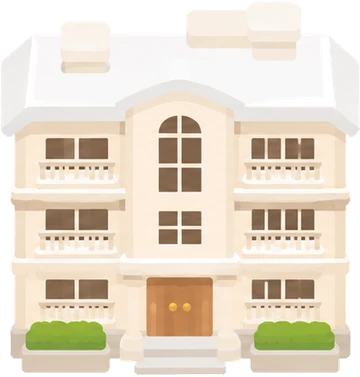
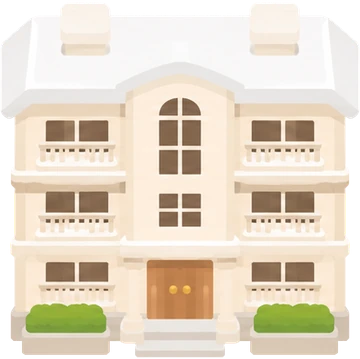
치복 타운: 새 집·빌라(지붕 마스킹)·나무 그림, 사냥터 포탈 그림 + 소용돌이 회전 효과

diff --git a/game.html b/game.html
@@ -1594,7 +1594,7 @@ function bootDone() { setTimeout(() => { try { localStorage.setItem('cbt-booting
 const ART = {};
 const ART_N = ['b-gacha', 'b-cafe', 'b-skin', 'b-hall', 'b-smith', 'b-fishshop', 'b-lumber', 'b-quarry', 'b-farmshed', 'farm', 'raid-bg',
   ...[1, 2, 3, 4, 5].map(i => 'tree-' + i), ...[1, 2, 3, 4, 5, 6, 7, 8].flatMap(i => ['house-' + i, 'house-' + i + '-roof']),
-  ...['head', 'wing', 'arm', 'body', 'leg'].map(n => 'd-' + n), 'rd-hat', 'rd-suit', 'rd-sword', 'rd-bow', 'rd-staff'];
+  ...['head', 'wing', 'arm', 'body', 'leg'].map(n => 'd-' + n), 'rd-hat', 'rd-suit', 'rd-sword', 'rd-bow', 'rd-staff', 'portal', 'portal-hole'];
 const artReady = Promise.all(ART_N.map(n => new Promise(ok => { const im = new Image(); im.onload = () => { ART[n] = im; ok(); }; im.onerror = () => ok(); im.src = `assets/img/town/${n}.webp?v=__BUILD__`; })));
 // 그림 조각 (캐릭터 스킨용): inkDraw 안에서 테두리 없이 그림을 그림. rot = 돌리기(가운데 기준)
 // 그림 바깥 테두리 (2026-11-18): 그림 모양대로 검게 칠한 판(silOf)을 둘레 16방향으로 O만큼 밀어 그린 뒤 그 위에 그림
@@ -2122,19 +2122,19 @@ const rockP = (c = '#9aa0a8', ore) => [{ path: PG([[-16, -8], [-17, -1], [-12, 3
   ...(ore ? [{ path: E(7, -10, 2.8, 2.1), c: '#e8c55a' }, { path: E(-5, -8, 2.2, 1.7), c: '#e8c55a' }, { path: E(10, -15, 1.7, 1.4), c: '#bfe9ff' }] : [])];
 const stumpP = [{ path: R(-8, -7, 16, 8, [0, 0, 3, 3]), c: '#8a5a30' }, { path: E(0, -7, 8, 5), c: '#d8a56a' }, { path: E(0, -7, 4.5, 2.8), c: '#c48a4f' }, { path: E(0, -7, 1.6, 1), c: '#a0703c' }, { path: E(9, -1, 3, 1.6, .5), c: '#6cc35a' }];
 const rubbleP = [{ path: E(-6, -2, 5, 3.4), c: '#7e848c' }, { path: E(-6, -3.5, 5, 3), c: '#a3a9b1' }, { path: E(5, -2, 4, 3), c: '#757b83' }, { path: E(5, -3.2, 4, 2.6), c: '#9aa0a8' }, { path: E(0, -5, 3.5, 2.6), c: '#b4bac2' }];
-// 그림 나무: [그림 번호, 너비]. 발(줄기 밑동) = 그림 아래에서 7%
+// 그림 나무: [그림 번호, 너비]. 발(줄기 밑동) = 그림 맨 아래 (2026-11-18 새 그림, 그림자는 코드가 그림)
 const TREE_IMG = { maple: [1, 52], pine: [2, 46], round: [3, 60], birch: [4, 48], cherry: [5, 56] };
-const treeImg = k => { const [n, w] = TREE_IMG[k] || [], im = ART['tree-' + n]; if (!im) return null; const h = w * im.height / im.width; return sprite('to:' + k, w + BP * 2, h + BP * 2, w / 2 + BP, h * .93 + BP, g => inkImage(g, im, -w / 2, -h * .93, w, h)); };
+const treeImg = k => { const [n, w] = TREE_IMG[k] || [], im = ART['tree-' + n]; if (!im) return null; const h = w * im.height / im.width; return sprite('to:' + k, w + BP * 2, h + BP * 2, w / 2 + BP, h * .985 + BP, g => inkImage(g, im, -w / 2, -h * .985, w, h)); };
 const SP_TREE0 = { birch: () => sprite('t:birch5', 40, 70, 20, 64, g => inkDraw(g, birchP)), cherry: () => sprite('t:cherry5', 60, 50, 30, 44, g => inkDraw(g, cherryP)), maple: () => sprite('t:maple5', 50, 50, 25, 44, g => inkDraw(g, mapleP)),
   round: () => sprite('t:round5', 50, 60, 25, 54, g => inkDraw(g, treeP('round'))), pine: () => sprite('t:pine5', 50, 62, 25, 56, g => inkDraw(g, treeP('pine'))), stone: () => sprite('t:stone5', 48, 34, 24, 28, g => inkDraw(g, rockP('#a39a8c'))) };
 const SP_TREE = Object.fromEntries(Object.entries(SP_TREE0).map(([k, f]) => [k, () => treeImg(k) || f()]));
 const SP_NODE = { tree: () => treeImg('round') || sprite('n:tree5', 50, 60, 25, 54, g => inkDraw(g, treeP('round', '#58a856'))), rock: () => sprite('n:rock5', 48, 34, 24, 28, g => inkDraw(g, rockP('#a3a8b0', true))),
   stump: () => sprite('n:stump5', 30, 18, 15, 14, g => inkDraw(g, stumpP)), rubble: () => sprite('n:rubble5', 30, 16, 15, 12, g => inkDraw(g, rubbleP)) };
 const nodeReady = n => !((me.life?.nodes?.[n.i] || 0) > Date.now());
-function drawDeco(d) { const x = d.x * T + T / 2, y = d.y * T + T - 3; if (TREE_IMG[d.k] && ART['tree-1']) return blit(SP_TREE[d.k](), x, y, d.s); ctx.fillStyle = 'rgba(31,42,58,.15)'; ctx.beginPath(); ctx.ellipse(x, y, 13 * d.s, 4, 0, 0, 7); ctx.fill(); blit(SP_TREE[d.k](), x, y, d.s); }
+function drawDeco(d) { const x = d.x * T + T / 2, y = d.y * T + T - 3; ctx.fillStyle = 'rgba(31,42,58,.15)'; ctx.beginPath(); ctx.ellipse(x, y, 13 * d.s, 4, 0, 0, 7); ctx.fill(); blit(SP_TREE[d.k](), x, y, d.s); }
 function drawNode(n, now) {
   const x = n.x * T + T / 2, y = n.y * T + T - 3, ok = nodeReady(n), shake = GA?.node === n ? Math.sin(now / 30) * 1.6 : 0;
-  if (!(ok && n.k === 'tree' && ART['tree-1'])) { ctx.fillStyle = 'rgba(31,42,58,.15)'; ctx.beginPath(); ctx.ellipse(x, y, 12, 4, 0, 0, 7); ctx.fill(); }
+  ctx.fillStyle = 'rgba(31,42,58,.15)'; ctx.beginPath(); ctx.ellipse(x, y, 12, 4, 0, 0, 7); ctx.fill();
   if (ok && n.v) blit(SP_TREE[n.v](), x + shake, y, n.s);
   else blit(SP_NODE[ok ? n.k : n.k === 'tree' ? 'stump' : 'rubble'](), x + shake, y, n.k === 'tree' ? 1.05 : 1);
 }
@@ -2193,7 +2193,58 @@ function drawScreen(s, now) {
   const bw = 42 * K, bh = 16 * K; ctx.fillStyle = S.live ? (Math.floor(now / 600) % 2 ? '#ff3b3b' : '#ff6b6b') : '#5d6b7e'; rr(ctx, r.x + 8, r.y + 8, bw, bh, 5 * K); ctx.fill();
   ctx.fillStyle = '#fff'; ctx.font = f(800, 10); ctx.textAlign = 'center'; ctx.textBaseline = 'middle'; ctx.fillText(S.live ? '● LIVE' : 'OFF AIR', r.x + 8 + bw / 2, r.y + 8 + bh / 2 + .5);
 }
+// 사냥터 포탈 그림 (2026-11-18 사용자 그림): 가운데 파란 소용돌이 칸만 코드로 돌림 + 빛 줄기 · 빨려 드는 빛 알갱이
+const PORTAL_W = 92, PORTAL_FOOT = .97, PORTAL_HOLE = [.3102, .3988, .3795, .3683];   // 소용돌이 칸 (그림 안 비율, town-art.py 8번 meta.portal.hole)
+const portalBox = () => { const im = ART.portal, w = PORTAL_W, h = im ? w * im.height / im.width : 74; return { x: PORTAL.x - w / 2, y: PORTAL.y - h * PORTAL_FOOT, w, h }; };
+const PH = [document.createElement('canvas'), document.createElement('canvas')];
+function portalSwirl(tt, Wd, Hd) {
+  const hole = ART['portal-hole'], k = 4, cw = Math.ceil(Wd * k), ch = Math.ceil(Hd * k), [A, B] = PH;
+  for (const c of PH) if (c.width !== cw || c.height !== ch) { c.width = cw; c.height = ch; }
+  const q = A.getContext('2d'), r = B.getContext('2d'), cx = cw * .5, cy = ch * .54, R = Math.min(cw, ch) * .5;
+  q.setTransform(1, 0, 0, 1, 0, 0); q.globalCompositeOperation = 'source-over'; q.globalAlpha = 1; q.clearRect(0, 0, cw, ch);
+  q.drawImage(hole, 0, 0, cw, ch);   // 그대로 있는 바탕
+  // 1) 가운데 원판: 그림을 돌리고 가장자리는 흐리게 바탕과 섞음
+  r.setTransform(1, 0, 0, 1, 0, 0); r.globalCompositeOperation = 'source-over'; r.clearRect(0, 0, cw, ch);
+  r.save(); r.translate(cx, cy); r.rotate(-tt * 1.6); r.drawImage(hole, -cx, -cy, cw, ch); r.restore();
+  r.globalCompositeOperation = 'destination-in';
+  const fade = r.createRadialGradient(cx, cy, 0, cx, cy, R * 1.02); fade.addColorStop(0, '#000'); fade.addColorStop(.72, '#000'); fade.addColorStop(1, 'rgba(0,0,0,0)');
+  r.fillStyle = fade; r.fillRect(0, 0, cw, ch);
+  q.drawImage(B, 0, 0);
+  // 2) 빛 줄기 3개 (나선)
+  q.globalCompositeOperation = 'lighter'; q.lineCap = 'round';
+  for (let j = 0; j < 3; j++) {
+    q.beginPath();
+    for (let i = 0; i <= 24; i++) { const u = i / 24, a = -tt * 2.6 + j * 2.094 + u * 3.4, rr = R * (.08 + u * .95); q.lineTo(cx + Math.cos(a) * rr, cy + Math.sin(a) * rr * .92); }
+    q.strokeStyle = `rgba(150,235,255,${.28 + .12 * Math.sin(tt * 3 + j)})`; q.lineWidth = R * .13; q.stroke();
+  }
+  // 3) 빨려 드는 빛 알갱이
+  for (let i = 0; i < 9; i++) {
+    const u = 1 - ((tt * .45 + i / 9) % 1), a = -tt * 2 + i * 2.4 + u * 3, rr = R * (.1 + u * .9);
+    q.fillStyle = `rgba(220,250,255,${.9 * (1 - u * .6)})`; q.beginPath(); q.arc(cx + Math.cos(a) * rr, cy + Math.sin(a) * rr * .92, R * (.025 + u * .03), 0, 7); q.fill();
+  }
+  // 4) 가운데 맥박 빛
+  const glow = q.createRadialGradient(cx, cy, 0, cx, cy, R * .55), pul = .45 + .2 * Math.sin(tt * 4);
+  glow.addColorStop(0, `rgba(210,250,255,${pul})`); glow.addColorStop(1, 'rgba(120,200,255,0)'); q.fillStyle = glow; q.fillRect(0, 0, cw, ch);
+  // 5) 소용돌이 칸 모양대로 자름
+  q.globalCompositeOperation = 'destination-in'; q.drawImage(hole, 0, 0, cw, ch);
+  return A;
+}
 function drawPortal(now) {
+  if (!ART.portal) return drawPortalOld(now);
+  const b = portalBox(), tt = now / 1000;
+  ctx.fillStyle = 'rgba(31,42,58,.2)'; ctx.beginPath(); ctx.ellipse(PORTAL.x, PORTAL.y - 1, b.w * .46, 6, 0, 0, 7); ctx.fill();
+  blit(sprite('portal', b.w + BP * 2, b.h + BP * 2, b.w / 2 + BP, b.h * PORTAL_FOOT + BP, g => inkImage(g, ART.portal, -b.w / 2, -b.h * PORTAL_FOOT, b.w, b.h)), PORTAL.x, PORTAL.y);
+  const [hx, hy, hw, hh] = PORTAL_HOLE, X = b.x + hx * b.w, Y = b.y + hy * b.h, Wd = hw * b.w, Hd = hh * b.h;
+  if (ART['portal-hole']) ctx.drawImage(portalSwirl(tt, Wd, Hd), X, Y, Wd, Hd);
+  // 문 밖으로 새어 나오는 빛 + 떠오르는 알갱이
+  ctx.save(); ctx.globalCompositeOperation = 'lighter';
+  const gx = X + Wd / 2, gy = Y + Hd * .55, gl = ctx.createRadialGradient(gx, gy, Wd * .2, gx, gy, Wd * .95);
+  gl.addColorStop(0, `rgba(90,170,255,${.16 + .06 * Math.sin(tt * 2.2)})`); gl.addColorStop(1, 'rgba(90,170,255,0)'); ctx.fillStyle = gl; ctx.beginPath(); ctx.arc(gx, gy, Wd * .95, 0, 7); ctx.fill();
+  for (let i = 0; i < 6; i++) { const u = (tt * .35 + i / 6) % 1, px = gx + Math.sin(i * 2.1 + tt * 1.3) * Wd * .4, py = Y + Hd * (.95 - u * 1.1); ctx.fillStyle = `rgba(170,230,255,${(1 - u) * .8})`; ctx.beginPath(); ctx.arc(px, py, 1.1 + (1 - u), 0, 7); ctx.fill(); }
+  ctx.restore();
+  plaque('⚔ 사냥터 포탈', PORTAL.x, b.y - 8, '#f3e3c3', 12);
+}
+function drawPortalOld(now) {
   const x = PORTAL.x, y = PORTAL.y, tt = now / 1000;
   ctx.fillStyle = 'rgba(31,42,58,.2)'; ctx.beginPath(); ctx.ellipse(x, y, 22, 5, 0, 0, 7); ctx.fill();
   flatInk(ctx, [{ path: E(x, y - 4, 24, 9), c: '#5a4398' }, { path: E(x, y - 5, 19, 6.5), c: '#7d62d4' },
@@ -3766,7 +3817,7 @@ function tap(sx, sy) {
   }
   if (Math.hypot(w.x - FSIGN.x, w.y - (FSIGN.y - 24)) < 26) return openFishing();
   { const ss = SPOTS.find(s => s.id === 'screen'), r = screenRect(ss); if (w.x > r.x - 10 && w.x < r.x + r.w + 10 && w.y > r.y - 10 && w.y < r.base) return openSpot(ss); }   // 큰 전광판
-  if (Math.abs(w.x - PORTAL.x) < 24 && w.y > PORTAL.y - 74 && w.y < PORTAL.y + 6) return openHuntSelect();
+  if (Math.abs(w.x - PORTAL.x) < (ART.portal ? PORTAL_W * .45 : 24) && w.y > (ART.portal ? portalBox().y + 6 : PORTAL.y - 74) && w.y < PORTAL.y + 6) return openHuntSelect();
   const fo = SPOTS.find(s => s.id === 'fountain'); if (Math.hypot((w.x - (fo.x + 1) * T) / 38, (w.y - (fo.y + .8) * T) / 36) < 1) return openWish();
   if (hitP) return openProfile(hitP);
   if (onMe) { openPanelTab('stat'); return; }

diff --git a/scripts/img-export/town-art.py b/scripts/img-export/town-art.py
@@ -4,7 +4,7 @@
 import json, os, sys
 from collections import deque
 import numpy as np
-from PIL import Image
+from PIL import Image, ImageFilter
 
 SRC = os.path.join('텍스쳐 템플릿', '내 디자인')
 OUT = os.path.join('assets', 'img', 'town')
@@ -165,50 +165,31 @@ row = f[int(f.shape[0] * .5), :, :3].astype(int)
 soil = np.where((row[:, 0] < 180) & (row[:, 0] > 110) & (row[:, 1] < 110))[0]
 META['farmIn'] = [round(soil.min() / f.shape[1], 4), round(soil.max() / f.shape[1], 4)]
 
-# 3) 나무 5그루
-r = cut_bg(load('풍경_나무'), holes=True)
+def load_rgba(name):
+    return np.asarray(Image.open(os.path.join(SRC, name + '.png')).convert('RGBA'))
+
+def keep_rgba(name):
+    """이미 배경이 투명한 그림 (2026-11-18 새 그림): 투명 칸 색은 0으로"""
+    a = load_rgba(name).copy(); a[a[:, :, 3] == 0] = 0; return a
+
+# 3) 나무 5그루 (2026-11-18 새 그림, 배경 투명)
+r = keep_rgba('풍경_나무')
 for i, (x0, x1) in enumerate(split_n(r, 5)):
     save('tree-%d' % (i + 1), clean(crop(r, (x0, 0, x1, r.shape[0]))), width=240)
 
-# 4) 집 4 + 빌라 4: 지붕(하얀색)은 따로 떼어서 색을 입힐 수 있게
-def roof_mask(t):
-    rgb = t[:, :, :3].astype(int); al = t[:, :, 3]
-    mn = rgb.min(2); mx = rgb.max(2)
-    m = (al > 8) & (mn >= 214) & ((mx - mn) <= 10)
-    # 위쪽 60% 안에서 시작하는 큰 덩어리만 (계단·난간 빼기)
-    h, w = m.shape; lab = -np.ones((h, w), int); keep = np.zeros_like(m)
-    step = 2; ms = m[::step, ::step]; hh, ww = ms.shape; seen = np.zeros_like(ms)
-    for y in range(hh):
-        for x in range(ww):
-            if not ms[y, x] or seen[y, x]: continue
-            q = deque([(y, x)]); seen[y, x] = True; pts = []
-            while q:
-                cy, cx = q.popleft(); pts.append((cy, cx))
-                for dy, dx in ((1, 0), (-1, 0), (0, 1), (0, -1)):
-                    ny, nx = cy + dy, cx + dx
-                    if 0 <= ny < hh and 0 <= nx < ww and ms[ny, nx] and not seen[ny, nx]:
-                        seen[ny, nx] = True; q.append((ny, nx))
-            top = min(p[0] for p in pts)
-            if len(pts) * step * step > h * w * .004 and top < hh * .6:
-                for cy, cx in pts: keep[cy * step:(cy + 1) * step, cx * step:(cx + 1) * step] = True
-    keep &= m
-    # 테두리 1칸 넓혀서 틈 메우기 (밝은 칸만)
-    grow = keep | np.roll(keep, 1, 0) | np.roll(keep, -1, 0) | np.roll(keep, 1, 1) | np.roll(keep, -1, 1)
-    grow &= (al > 8) & (mn >= 200) & ((mx - mn) <= 16)
-    return grow
-
+# 4) 집 4 + 빌라 4 (2026-11-18 새 그림): 지붕 칸은 사용자가 그린 마스킹 그림(빨간 칸)으로 떼어서 색을 입힘
 k = 0
-for src in ['건물_집', '건물_빌라']:
-    r = cut_bg(load(src))
+for src, msk in [('건물_집', '건물_집_지붕색마스킹'), ('건물_빌라_리뉴얼', '건물_빌라_지붕색 마스킹')]:
+    r = keep_rgba(src); M = load_rgba(msk)[:, :, 3].astype(np.float32) / 255
     for (x0, x1) in col_segments(r, 4):
         k += 1
-        t = crop(r, (x0, 0, x1, r.shape[0]))
-        base = save('house-%d' % k, t, width=360)
-        m = roof_mask(t)
-        roof = t.copy(); roof[:, :, 3] = np.where(m, t[:, :, 3], 0)
-        # 지붕 칸은 밝기만 남김 (회색조) → 화면에서 색을 곱함
+        sub = r[:, x0:x1]; bx = bbox(sub[:, :, 3]); X0, Y0, X1, Y1 = bx[0] + x0, bx[1], bx[2] + x0, bx[3]
+        t = r[Y0:Y1, X0:X1]; m = M[Y0:Y1, X0:X1]
+        save('house-%d' % k, t, width=360)
+        roof = t.copy(); roof[:, :, 3] = (t[:, :, 3] * m).round().astype(np.uint8)
+        # 지붕 칸은 밝기만 남김 (회색조) → 화면에서 색을 곱함 (그림의 음영은 살림)
         g = roof[:, :, :3].astype(int).mean(2)
-        g = np.clip((g - 200) * 255 / 55, 0, 255) * .35 + 255 * .65
+        g = np.clip((g - 170) * 255 / 85, 0, 255) * .45 + 255 * .55
         roof[:, :, 0] = roof[:, :, 1] = roof[:, :, 2] = g.astype(np.uint8)
         save('house-%d-roof' % k, roof, width=360)
 
@@ -219,8 +200,6 @@ META['raid-bg'] = [bg.width, bg.height]
 
 # 6) 드래곤 조각 (2026-11-18 새로): 사용자가 1182×1024 판 하나에 위치까지 맞춰 그린 조각 5장 (왼쪽만 → 오른쪽은 좌우로 뒤집음)
 #    meta 'dragon' = { 이름: [x, y, w, h] } 판 좌표 (원점은 화면이 정함: 가운데 x = 591, 바닥 = 가장 아래 칸)
-def load_rgba(name):
-    return np.asarray(Image.open(os.path.join(SRC, name + '.png')).convert('RGBA'))
 PART = {}; FW = 1182; bottom = 0
 for src, n in [('드래곤_날개', 'wing'), ('드래곤_뒷다리', 'leg'), ('드래곤_몸통', 'body'), ('드래곤_앞발', 'arm'), ('드래곤_머리', 'head')]:
     a = load_rgba(src); b = bbox(a[:, :, 3], pad=1); t = a[b[1]:b[3], b[0]:b[2]]
@@ -237,6 +216,21 @@ for src, n, ox, oy, k in [('스킨_드래곤_모자', 'hat', 192, 336, 4), ('스
     save('rd-' + n, t.copy())
     RD[n] = [round((b[0] - ox) / k, 3), round((b[1] - oy) / k, 3), round(t.shape[1] / k, 3), round(t.shape[0] / k, 3)]   # 게임 단위 x, y, w, h (기준점에서)
 META['rd'] = RD
+
+# 8) 사냥터 포탈 (2026-11-18): 그림 + 가운데 소용돌이 칸(파란 칸) 위치 → 화면이 그 칸만 돌림
+r = keep_rgba('건물_사냥터 포탈'); b = bbox(r[:, :, 3]); t = r[b[1]:b[3], b[0]:b[2]]
+save('portal', t, width=480)
+c = t[:, :, :3].astype(int); hole = (t[:, :, 3] > 200) & (c[:, :, 2] > c[:, :, 0] + 70) & (c[:, :, 2] > 150)
+# 큰 덩어리만 (깃발 등 파란 점 빼기) → 구멍 메우기
+hm = Image.fromarray(hole.astype(np.uint8) * 255).filter(ImageFilter.MaxFilter(5)).filter(ImageFilter.MinFilter(5))
+ha = np.asarray(hm) > 0; ys, xs = np.where(ha)
+hb = [int(xs.min()), int(ys.min()), int(xs.max()) + 1, int(ys.max()) + 1]
+hole_img = t.copy(); hole_img[:, :, 3] = np.where(ha, 255, 0); hole_img = hole_img[hb[1]:hb[3], hb[0]:hb[2]]
+im = Image.fromarray(hole_img, 'RGBA'); sc = 480 / t.shape[1]
+im = im.resize((max(1, round(im.width * sc)), max(1, round(im.height * sc))), Image.LANCZOS); im.save(os.path.join(OUT, 'portal-hole.webp'), 'WEBP', quality=92, method=6)
+H, W = t.shape[:2]
+META['portal'] = {'hole': [round(hb[0] / W, 4), round(hb[1] / H, 4), round((hb[2] - hb[0]) / W, 4), round((hb[3] - hb[1]) / H, 4)]}
+print('portal hole', hb, t.shape)
 
 json.dump(META, open(os.path.join(OUT, 'meta.json'), 'w'), ensure_ascii=False, indent=1)
 print(json.dumps(META, ensure_ascii=False))

diff --git a/scripts/img-export/clean-edge.py b/scripts/img-export/clean-edge.py
@@ -1,0 +1,66 @@
+# 그림 바깥 라인 정리 (2026-11-18): 반투명 번짐·떨어진 작은 점 지우기 → 작은 홈 메우기 → 가장자리 부드럽게(안티에일리어싱)
+# 쓰는 법: python scripts/img-export/clean-edge.py "원본.png" "저장할.png"
+# 원본은 그대로 두고 새 파일로 저장함
+import sys
+from collections import deque
+import numpy as np
+from PIL import Image, ImageFilter
+
+src, dst = sys.argv[1], sys.argv[2]
+im = Image.open(src).convert('RGBA')
+a = np.asarray(im).astype(np.float32)
+rgb, al = a[:, :, :3], a[:, :, 3]
+H, W = al.shape
+
+# 1) 확실히 그림인 곳 (반투명 번짐은 버림)
+solid = al >= 128
+
+# 2) 떨어진 작은 덩어리(점·부스러기) 지우기: 이어진 덩어리 중 가장 큰 것의 0.3% 보다 작으면 버림
+st = 2
+s2 = solid[::st, ::st]; h2, w2 = s2.shape
+lab = -np.ones((h2, w2), np.int32); areas = []
+for y in range(h2):
+    row = s2[y]
+    for x in range(w2):
+        if not row[x] or lab[y, x] >= 0: continue
+        k = len(areas); q = deque([(y, x)]); lab[y, x] = k; n = 0
+        while q:
+            cy, cx = q.popleft(); n += 1
+            for dy, dx in ((1, 0), (-1, 0), (0, 1), (0, -1), (1, 1), (-1, -1), (1, -1), (-1, 1)):
+                ny, nx = cy + dy, cx + dx
+                if 0 <= ny < h2 and 0 <= nx < w2 and s2[ny, nx] and lab[ny, nx] < 0:
+                    lab[ny, nx] = k; q.append((ny, nx))
+        areas.append(n)
+big = max(areas)
+keep = np.array([n >= big * .003 for n in areas] + [False])
+km = keep[lab]
+km = np.repeat(np.repeat(km, st, 0), st, 1)[:H, :W]
+km = np.asarray(Image.fromarray(km.astype(np.uint8) * 255).filter(ImageFilter.MaxFilter(5))) > 0   # 경계 보호
+solid &= km
+print('덩어리', len(areas), '→ 남김', int(keep[:-1].sum()))
+
+# 3) 작은 홈 메우기(닫기) + 가는 털 지우기(열기)
+m = Image.fromarray(solid.astype(np.uint8) * 255)
+m = m.filter(ImageFilter.MaxFilter(3)).filter(ImageFilter.MinFilter(3))   # 닫기
+m = m.filter(ImageFilter.MinFilter(3)).filter(ImageFilter.MaxFilter(3))   # 열기
+
+# 4) 부드러운 가장자리: 살짝 흐린 뒤 경계만 반투명으로 (약 1.5px 폭)
+b = np.asarray(m.filter(ImageFilter.GaussianBlur(1.1))).astype(np.float32) / 255
+alpha = np.clip((b - .5) * 2.6 + .5, 0, 1)
+
+# 5) 새로 채워진 칸의 색: 가까운 원래 색으로 (번진 회색이 남지 않게)
+good = al >= 200
+col = rgb.copy(); filled = good.copy()
+for _ in range(6):
+    if filled.all(): break
+    acc = np.zeros_like(col); cnt = np.zeros((H, W), np.float32)
+    for dy, dx in ((1, 0), (-1, 0), (0, 1), (0, -1)):
+        sh = np.roll(np.roll(col, dy, 0), dx, 1); sf = np.roll(np.roll(filled, dy, 0), dx, 1)
+        acc += sh * sf[:, :, None]; cnt += sf
+    new = (~filled) & (cnt > 0)
+    col[new] = acc[new] / cnt[new][:, None]; filled |= new
+
+out = np.dstack([col, alpha * 255]).round().clip(0, 255).astype(np.uint8)
+out[alpha <= 0] = 0
+Image.fromarray(out, 'RGBA').save(dst)
+print('저장:', dst)

diff --git a/CLAUDE.md b/CLAUDE.md
@@ -532,6 +532,11 @@
 - **레이드 모집 창** `raidSheet` (건물 창 틀, 색 `BC.raid`): 드래곤 머리 그림 아이콘, 남은 시간 고리, 참여 인원·보너스(6초마다 `/api/raid`), 보상 칸 3개. '나중에'로 닫아도 위쪽 빨간 칩 `#raidChip`(남은 시간·인원)으로 다시 열림. 🐉 아이콘(game-icons `dragon`)은 빨간 드래곤 얼굴로 새로 그림
 - **자리 비움 = 사냥 + 마을 일 반반**: 마을에서 화면을 닫아도 효율 50% 중 절반은 `offlineHuntAway`(사냥 1시간 어림값: 경험치 `huntIdleExp/.7`, 골드 `(1500×레벨+8000)×.55`, 처치 `60+레벨×2`), 절반은 `offlineLife`. 응답 `away.hunt`
 
+- **집·빌라·나무·포탈 새 그림** (2026-11-18): 배경이 이미 투명한 그림은 town-art.py `keep_rgba`로 그대로 씀
+  - 집 4 + 빌라 4: `건물_집.png` · `건물_빌라_리뉴얼.png` + 사용자가 그린 지붕 마스킹(`건물_집_지붕색마스킹.png`, `건물_빌라_지붕색 마스킹.png`, 빨간 칸 = 지붕) → 그 칸만 `house-N-roof`로 떼어 지붕 색을 곱함
+  - 나무 5종 새 그림: 밑동이 그림 맨 아래(발 `h * .985`), 그림자는 코드가 그림
+  - **사냥터 포탈** `건물_사냥터 포탈.png` → `portal.webp` + 파란 소용돌이 칸만 뗀 `portal-hole.webp` (town-art.py 8번, 칸 위치 `PORTAL_HOLE`). game.html `drawPortal` → `portalSwirl`: 가운데 원판을 돌리고(가장자리는 흐리게 섞음) 나선 빛 줄기 3개 · 빨려 드는 빛 알갱이 · 맥박 빛을 얹은 뒤 소용돌이 모양대로 자름. 문 밖으로 새는 빛 + 떠오르는 알갱이. 크기 `PORTAL_W` 92px, 누르는 범위 `portalBox()`
+  - 그림 바깥 라인 정리 도구: `python scripts/img-export/clean-edge.py "원본.png" "저장.png"` (떨어진 점·회색 번짐 지우기, 가장자리 다듬기. 원본은 그대로)
 - 가입 화면 '비밀번호는 아무도 볼 수 없어요' 안내 `#pwSafe` (가입 탭에서만). 실제로 비밀번호는 PBKDF2 해시로만 저장되고 기록·로그에도 안 남음 → 관리자도 못 봄 (임시 비밀번호 발급은 새 비밀번호를 만드는 것)
 
 - **가입 안내 동의** (2026-11-18): 가입 탭에 '가입 전에 알아 두세요'(수익 없는 개인 팬 게임 · 패치로 언제든 바뀌거나 초기화 · 혼자 운영해서 미흡할 수 있음) + 필수 체크 `#agree`. 서버 `/api/signup`도 `agree === TERMS_VER`가 아니면 거절, `activity`에 '안내 동의 날짜'로 남김. 안내 내용을 바꾸면 game.html과 index.js의 `TERMS_VER`를 같이 올리기

diff --git a/텍스쳐 템플릿/README.md b/텍스쳐 템플릿/README.md
@@ -64,7 +64,8 @@
 
 ## 내 디자인 (2026-11-18 적용됨)
 `내 디자인/` 폴더의 그림은 `scripts/img-export/town-art.py`가 흰 배경을 지우고 잘라서 `assets/img/town/`에 넣어요. 그림을 고쳤으면 Claude에게 "내 디자인 다시 적용해 줘"라고 말하기.
-- 건물 9곳 · 나무 5종 · 텃밭 · 집 8단계(지붕은 하얗게 → 게임이 지붕 색을 입힘) · 레이드 배경
+- 건물 9곳 · 나무 5종 · 텃밭 · 레이드 배경 · 사냥터 포탈(가운데 소용돌이는 게임이 돌림)
+- 집 8단계: `건물_집.png`(1~4) · `건물_빌라_리뉴얼.png`(5~8) + 같은 크기의 지붕 마스킹 그림(지붕 칸만 빨갛게) → 그 칸에 게임이 지붕 색을 입힘
 - 드래곤: `드래곤_날개/뒷다리/몸통/앞발/머리.png` — 1182×1024 판 하나에 **놓인 위치 그대로** 씀 (날개·뒷다리·앞발은 왼쪽만 그리면 오른쪽은 게임이 뒤집음)
 - 레드 드래곤 스킨: `스킨_드래곤_모자/갑옷/검/활/지팡이.png` — 위 템플릿 틀(char·weapon) 그대로 씀
 - 게임이 그림 바깥 둘레에 두꺼운 검은 테두리를 자동으로 그려요 (그림에 테두리를 안 그려도 됨)
